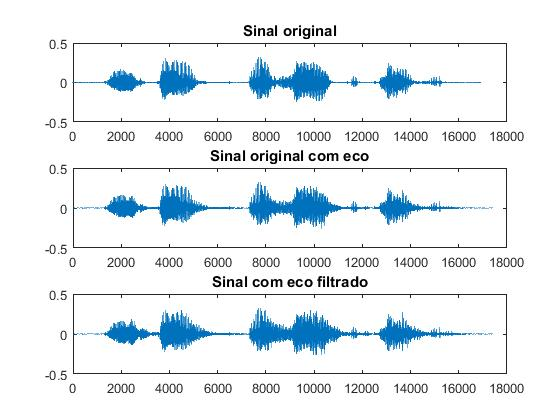
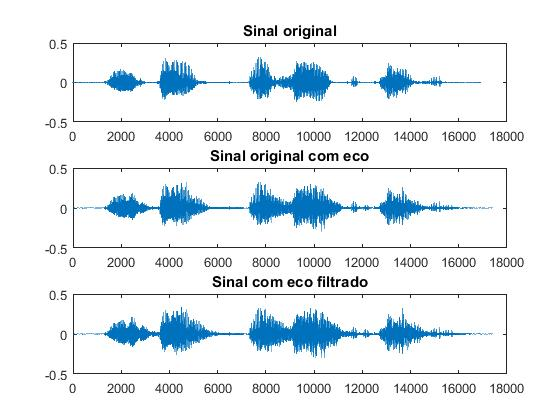
aff

diff --git a/I/Q2/Q2.m b/I/Q2/Q2.m
@@ -7,10 +7,9 @@ a = 0.90;
 
 %% Sinal Atrasado
 x2=[x', zeros(1,D)];
-x2(D:D+len-1)=x2(D:D+len-1)+x'*a; 
+x2(D:D+len-1)=x2(D:D+len-1)+x'*0.5; 
 
 
-%{
  %% Definicao do Filtro reverberador1
 numerador = 1;                 
 denominador = zeros(1, D + 1); 
@@ -18,9 +17,9 @@ denominador(1) = 1;
 denominador(D + 1) = -a;
 
 y2 = filter(numerador, denominador, x2);
-%}
 
-%%{
+
+%{
 %% Definicao do Filtro reverberador2
 numerador = 1;                 
 denominador = zeros(1, D + 1); 
@@ -29,7 +28,7 @@ denominador(D + 1) = a;
 
 
 y2 = filter(numerador, denominador, x2);
-%%}
+%}
 
 %% Plot
 subplot(3, 1, 1);

diff --git a/II/Q2.1/Q1.m b/II/Q2.1/Q1.m
@@ -1,8 +1,9 @@
 im = imread('C:\Users\hfa2\Desktop\Processamento_Digital_Sinais---Projeto\Arquivos\lena_rings.bmp');
 figure
 imshow(im)
+figure
 imfourier = fftshift(fft2(im));
-%imshow(log(abs(imfourier)), []); 
+imshow(log(abs(imfourier)), []); 
 figure
 h = fspecial('gaussian', [20 20], 1.1);
 y = imfilter(im,h);
